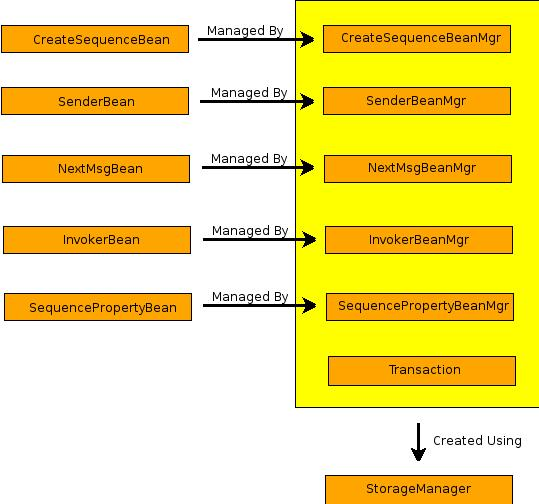
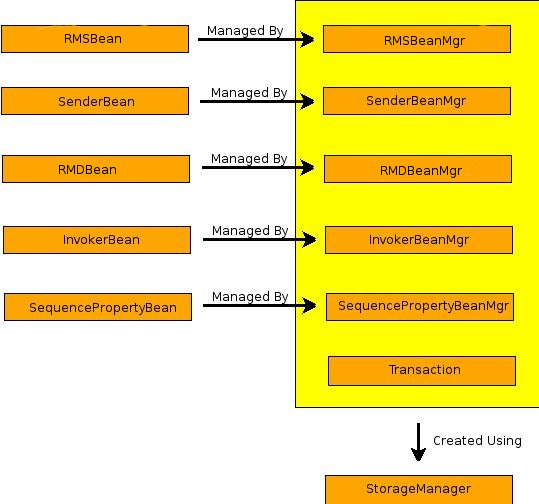
Some updates to the Archi guide

diff --git a/xdocs/architectureGuide.html b/xdocs/architectureGuide.html
@@ -204,23 +204,23 @@ framework.</strong></p>
 <p>Storage framework defines several beans that extend the RMBean abstract
 class. They are given below:</p>
 <ol>
-  <li>CreateSequenceBean (fields - InternalSequenceID, CreateSequenceMsgID,
-    SequenceID)</li>
+  <li>RMSBean (fields - internalSequenceID, createSequenceMsgID,
+    sequenceID, createSequenceMsgStoreKey, referenceMsgStoreKey, securityTokenData)</li>
   <li>SenderBean (fields - messageContextRefKey, internalSequenceID,
     messageNumber, messageID, messageType, send, resent,
   sentCount,timeToSend)</li>
-  <li>NextMsgBean (fields - sequenceID, nextMsgToProcess)</li>
+  <li>RMDBean (fields - sequenceID, nextMsgToProcess, pollingMode, referenceMessageKey)</li>
   <li>InvokerBean (fields - invoked,messageContextRefKey, sequenceID,
   msgNo)</li>
-  <li>SequencePropertyBean (fields - sequenceID, name, value)</li>
+  <li>SequencePropertyBean (fields - sequencePropertyKey, name, value)</li>
 </ol>
 
 <p>There are five bean manager interfaces corresponding to each of above
 beans.They are as follows:</p>
 <ol>
-  <li>CreateSequenceBeanMgr</li>
+  <li>RMSBeanMgr</li>
   <li>InvokerBeanMgr</li>
-  <li>NextMsgBeanMgr</li>
+  <li>RMDBeanMgr</li>
   <li>SenderBeanMgr</li>
   <li>SequencePropertyBeanMgr</li>
 </ol>
